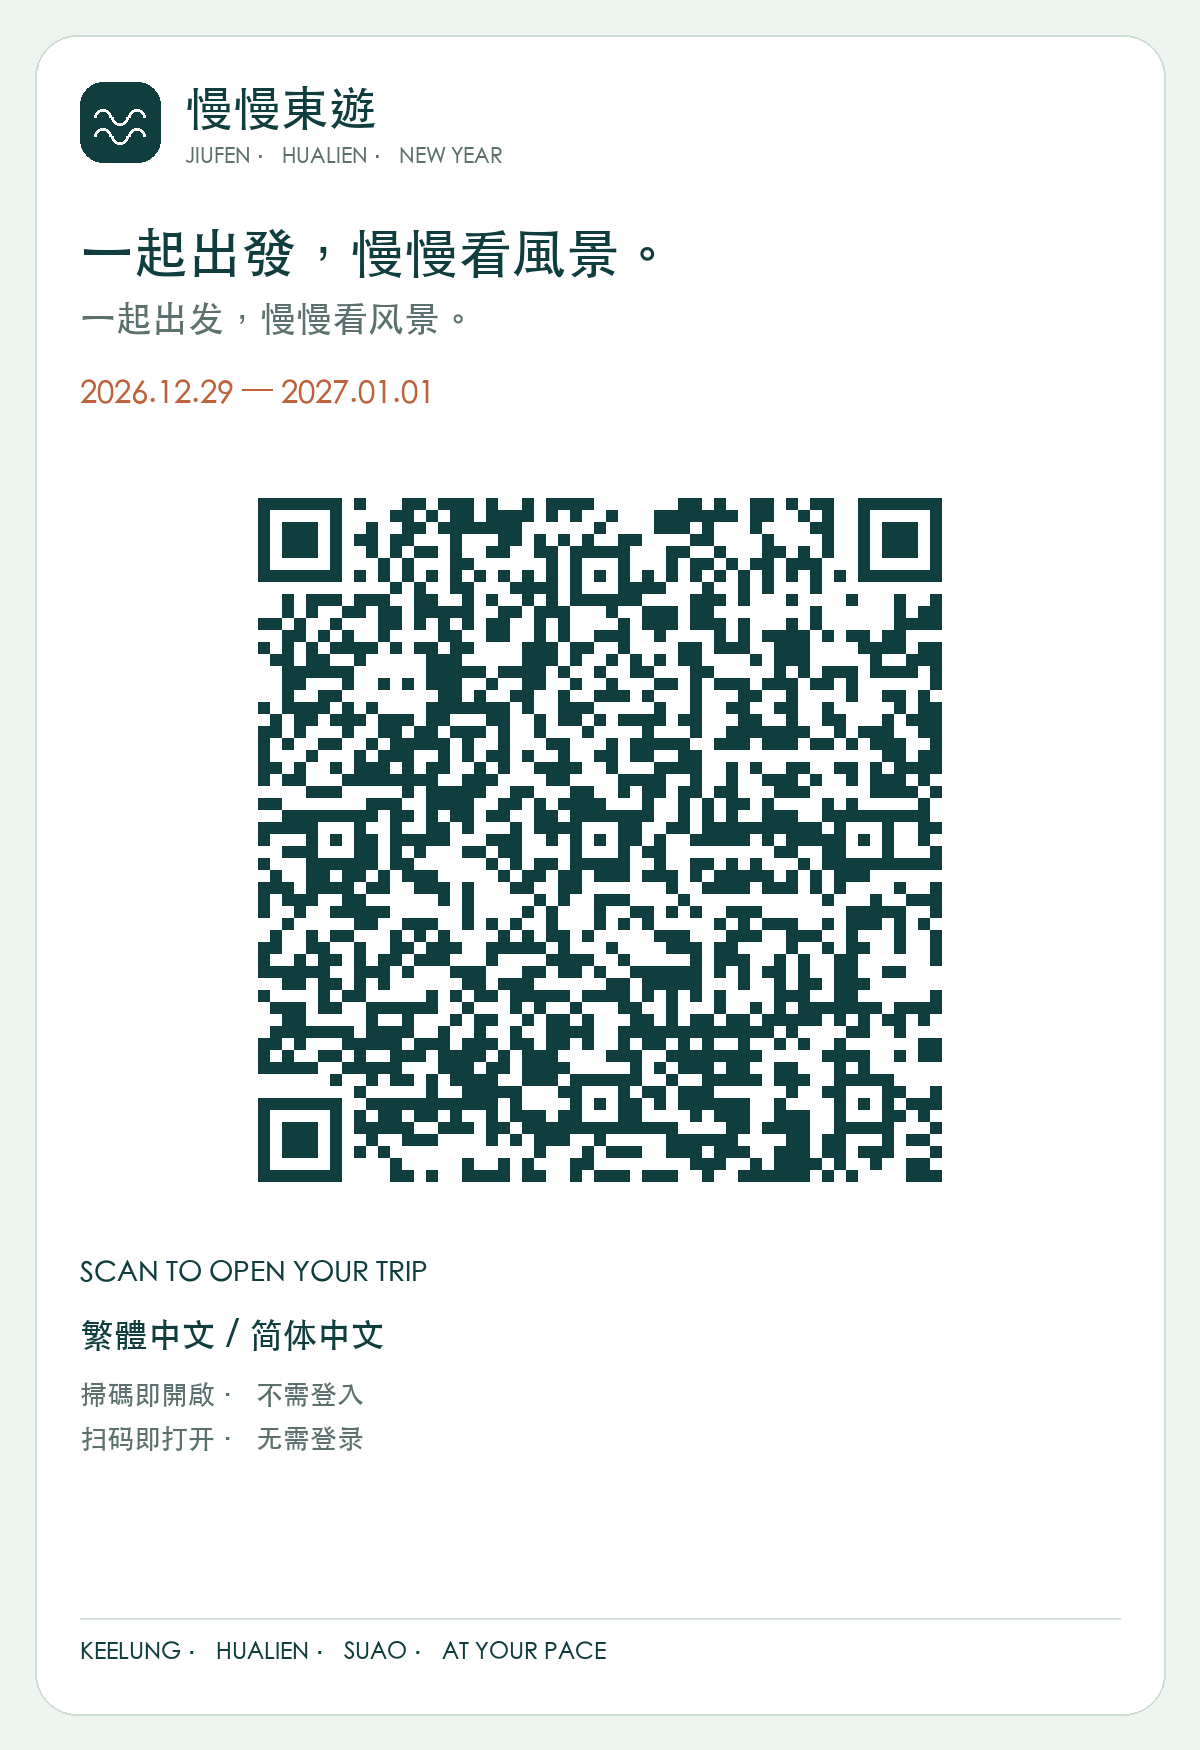
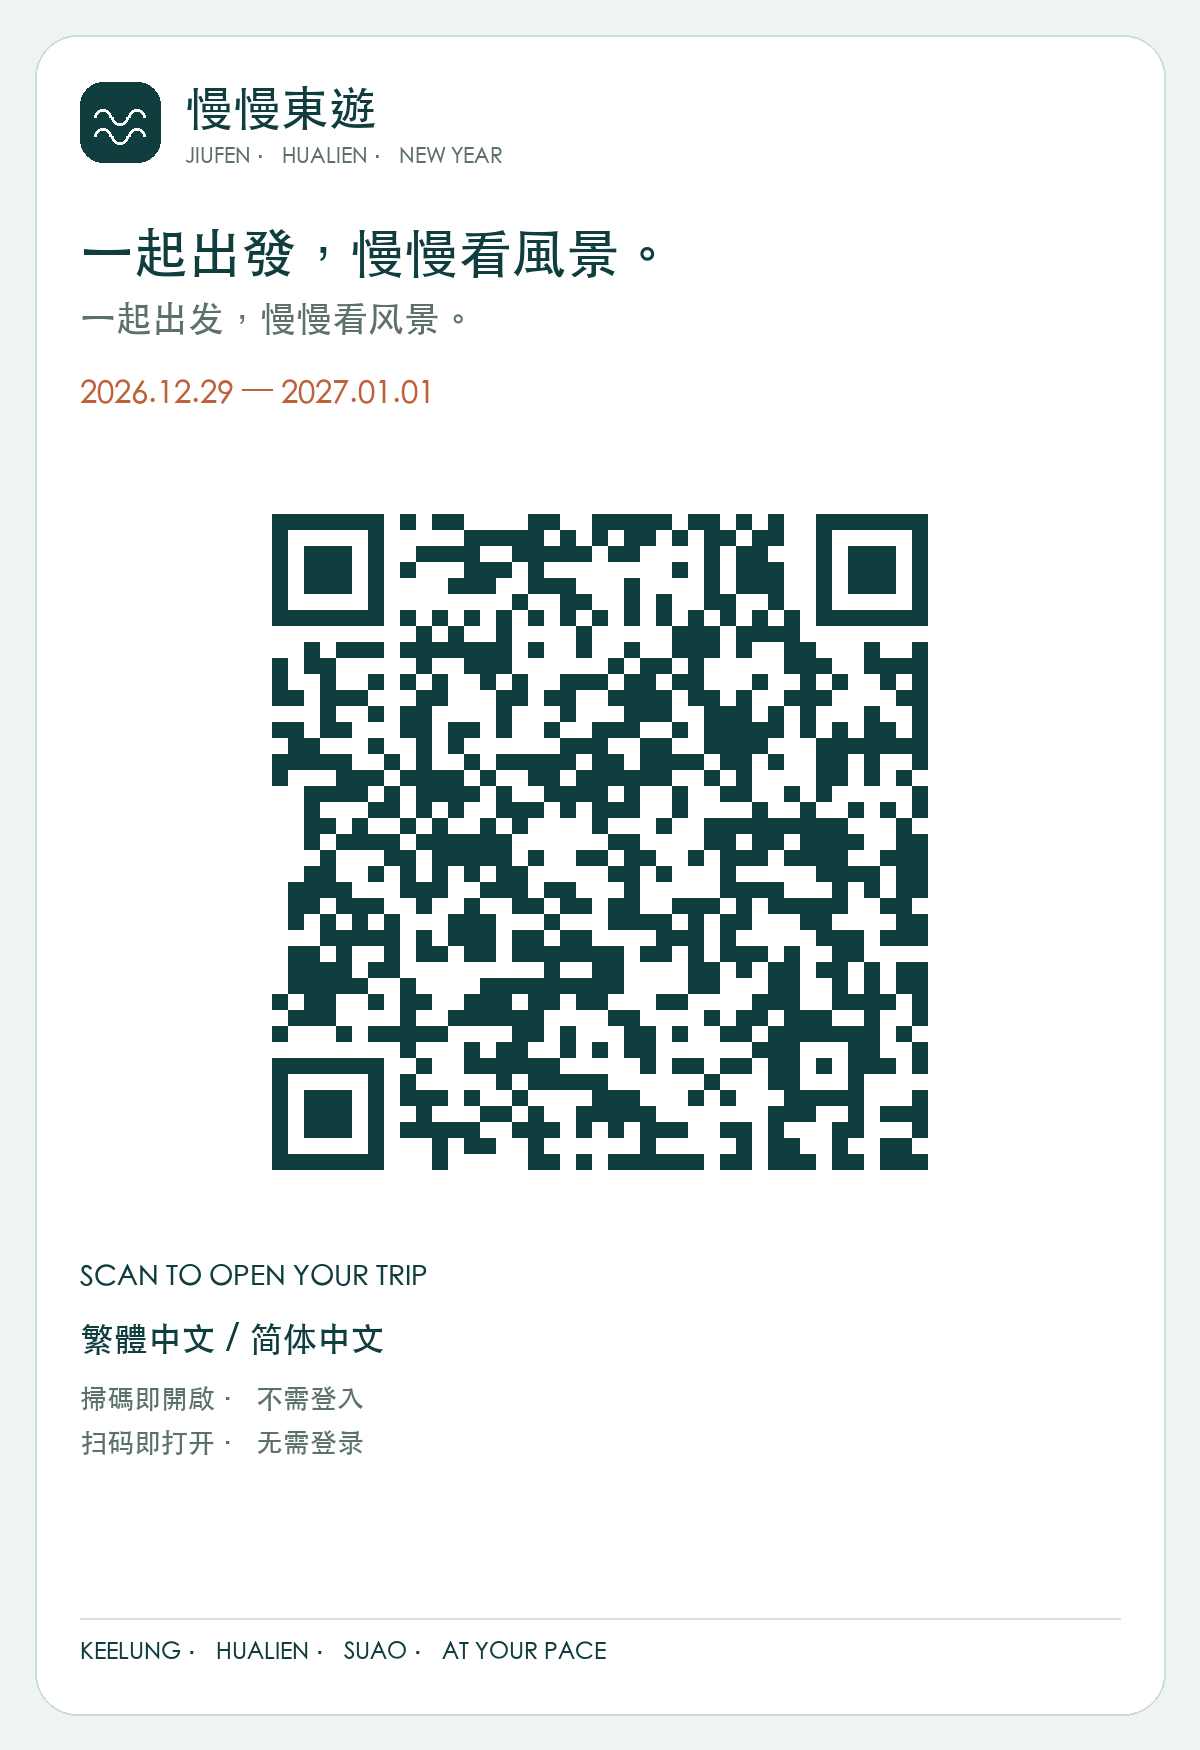
Publish native GitHub Pages URL and update all sharing QR codes

Changed region(s): [[0.2158, 0.2777, 0.8017, 0.6789], [0.0617, 0.7097, 0.3392, 0.8331]]

diff --git a/index.html b/index.html
@@ -20,7 +20,7 @@
 <div id="parking" class="parking-section"><div class="section-heading"><div><p class="eyebrow">PARK, THEN TAKE IT SLOW</p><h2>每一站，車停哪裡？</h2></div><p>正式費率與預留金分開列。<br>各站金額已包含在整趟停車預算，不再重複加總。</p></div><div class="table-scroll"><table class="parking-table"><caption>每車停車費、景點費與步行負擔</caption><thead><tr><th>停靠地點</th><th>停車與費率</th><th>步行／門票</th><th>導航與來源</th></tr></thead><tbody id="parking-rows"></tbody></table></div></div></div></section>
 <section id="prepare" class="section wrap"><div class="section-heading"><div><p class="eyebrow">ROOM FOR THE UNEXPECTED</p><h2>鬆一點，應變也更容易。</h2></div></div><div class="prepare-grid"><article><span class="tag">抵達與返程</span><h3>把最重要的餘裕留給航班</h3><p><strong>12/29 取車較晚：</strong>12:30後先刪十分，15:00後取消山城、直接基隆。翌日只補十分會把七星潭移31日早上；九份若也錯過，不保證四個重點全到。極晚抵台可先機場附近休息，額外房費／取消費另計，不疲勞趕路。</p><p><strong>元旦：</strong>主案早餐後 10:30–11:00 離蘇澳。一般純行車約 2.5–3.5 小時，連假可能 4–6 小時以上；加油、驗車還車、接駁另留 60–90 分鐘，再按航空公司要求，通常起飛前 2–3 小時到航廈。</p><p><strong>選傍晚偏晚、約 19:30 後航班作規劃參考，尚未選班。</strong>若航班較早或路況惡化，改 08:00–09:00 出發，取消沿途用餐停靠；出發前看即時路況。若預估無法趕上，先聯絡航空公司評估改班，不保證任何時刻必定趕得上。</p><a href="https://1968.freeway.gov.tw/" target="_blank" rel="noopener">高公局 1968 即時路況</a></article><article><span class="tag">雨天與低步行</span><h3>蘇花能否通行，比天氣按鈕更重要。</h3><p><strong>12/30：</strong>出發前看公路局道路資訊與氣象。豪雨、落石或封路就取消花蓮段，改留北部／宜蘭並聯絡住宿；不以網頁導航代替放行公告。</p><p><strong>12/31：</strong>可通行才白天北返蘇澳；強風雨取消崖邊及七星潭。匯德不安排，崇德也只進當日開放範圍。<a href="https://168.thb.gov.tw/" target="_blank" rel="noopener">公路局168路況</a> · <a href="https://www.taroko.gov.tw/ch/trailopen/road-and-trail-openings" target="_blank" rel="noopener">太魯閣開放表</a></p><p><strong>少走路：</strong>步行分鐘為估算，非無障礙認證。九份有坡、七星潭施工可能增加距離；先合法下客再停車，沒有近位就縮短或取消。不走瀑布步道、不走礫石灘、不靠近浪線。</p><a href="https://www.cwa.gov.tw/" target="_blank" rel="noopener">中央氣象署天氣</a></article><article><span class="tag">國 5 與證件</span><h3>先確認規則，再決定出發時間</h3><p><strong>1/1 沒有高乘載管制。</strong>1/2–1/3 13:00–18:00 才於蘇澳、羅東、宜蘭、頭城指定北向入口實施；無管制仍可能塞車。<a href="https://www.freeway.gov.tw/Upload/Html/20261110354/" target="_blank" rel="noopener">高公局元旦官網表</a></p><p>香港出生、具香港永久居留資格的旅客先按港澳居民網簽規則核對，其他護照等條件仍須符合，以移民署審核為準；建議預先辦妥。<a href="https://www.immigration.gov.tw/5385/7244/7250/7296/停留/75544/" target="_blank" rel="noopener">移民署</a></p><p>帶有效香港國際駕駛許可證、原正式駕照、護照及本人信用卡；訂車前向門市確認駕駛資格、保險及接駁。<a href="https://www.car-plus.com.tw/information/faq/category/1" target="_blank" rel="noopener">門市 FAQ</a> · <a href="https://www.taoyuan-airport.com/carrentals?lang=ch" target="_blank" rel="noopener">機場租車</a></p><p>台灣禁止電子煙及其組合元件輸入、販售與使用，請勿攜入，也不要在台購買。<a href="https://web.customs.gov.tw/taipei/singlehtml/3130?cntId=cus2_168120_3130" target="_blank" rel="noopener">官方規定</a></p></article></div>
 <div class="booking"><div><p class="eyebrow">預訂順序</p><h3>先鎖跨年夜，再填好其餘三天。</h3></div><ol><li><b>跨年飯店</b><span>先問瓏山林12/31空房、餐食、派對與私湯；保留可取消的條款。</span></li><li><b>航班與取還車</b><span>去程CX488已訂：29日08:00香港出發、09:40抵桃園。回程仍待確認，先選元旦偏晚回港，再倒推還車。</span></li><li><b>基隆與花蓮各一晚</b><span>確認車位、早餐、合法下客及取消條款；花蓮段保留道路應變彈性。</span></li><li><b>小吃不用排滿</b><span>廟口和東大門只選幾樣；出發前再查店家公休，不為一攤排長隊。</span></li></ol><p class="small">本頁為規劃工具；沒有進行任何訂房、訂餐、機票、租車或日曆操作。</p></div></section>
-<section id="share" class="section share-section"><div class="wrap share-grid"><div><p class="eyebrow">A LITTLE GUIDE, SHARED WITH YOU</p><h2>掃一下，<br>就一起出發。</h2><p>掃描QR Code就直接打開完整旅遊App，不需登入。繁體、簡體都能切換，手機也能查看四日路線、導航與預算。</p><div class="share-actions"><a class="button" id="open-github" href="https://htmlpreview.github.io/?https://github.com/kenny149151/taiwan-trip-web/blob/web-app/index.html">開啟旅遊App</a><button class="button secondary" id="copy-github" type="button">複製網站連結</button><button class="button secondary" id="native-share" type="button">分享給旅伴</button></div><label class="share-url-label" for="github-share-url">免登入網站連結</label><input id="github-share-url" class="share-url" type="url" readonly value="https://htmlpreview.github.io/?https://github.com/kenny149151/taiwan-trip-web/blob/web-app/index.html" data-no-convert><p class="share-access"><strong>直接分享：</strong>持有連結或QR Code的人可直接瀏覽。停靠點與預算只保存在各自的瀏覽器，彼此不會同步。</p><div class="guide-links"><button type="button" data-language="zh-Hant" data-no-convert>繁體中文網站</button><button type="button" data-language="zh-Hans" data-no-convert>简体中文网站</button></div><p id="share-status" class="small" role="status" aria-live="polite"></p></div><figure class="qr-card"><img src="app-share-card.png" alt="慢慢東遊免登入旅遊App QR分享卡" loading="lazy" width="1200" height="1750"><figcaption><a href="app-share-card.png" download="慢慢東遊-App分享卡.png">下載高清分享卡 PNG</a><a href="app-qr.svg" download="慢慢東遊-App-QR.svg">下載QR向量檔 SVG</a></figcaption></figure></div></section>
+<section id="share" class="section share-section"><div class="wrap share-grid"><div><p class="eyebrow">A LITTLE GUIDE, SHARED WITH YOU</p><h2>掃一下，<br>就一起出發。</h2><p>掃描QR Code就直接打開完整旅遊App，不需登入。繁體、簡體都能切換，手機也能查看四日路線、導航與預算。</p><div class="share-actions"><a class="button" id="open-github" href="https://kenny149151.github.io/taiwan-trip-web/">開啟旅遊App</a><button class="button secondary" id="copy-github" type="button">複製網站連結</button><button class="button secondary" id="native-share" type="button">分享給旅伴</button></div><label class="share-url-label" for="github-share-url">免登入網站連結</label><input id="github-share-url" class="share-url" type="url" readonly value="https://kenny149151.github.io/taiwan-trip-web/" data-no-convert><p class="share-access"><strong>直接分享：</strong>持有連結或QR Code的人可直接瀏覽。停靠點與預算只保存在各自的瀏覽器，彼此不會同步。</p><div class="guide-links"><button type="button" data-language="zh-Hant" data-no-convert>繁體中文網站</button><button type="button" data-language="zh-Hans" data-no-convert>简体中文网站</button></div><p id="share-status" class="small" role="status" aria-live="polite"></p></div><figure class="qr-card"><img src="app-share-card.png" alt="慢慢東遊免登入旅遊App QR分享卡" loading="lazy" width="1200" height="1750"><figcaption><a href="app-share-card.png" download="慢慢東遊-App分享卡.png">下載高清分享卡 PNG</a><a href="app-qr.svg" download="慢慢東遊-App-QR.svg">下載QR向量檔 SVG</a></figcaption></figure></div></section>
 </main>
 <footer><div class="wrap"><div class="footer-top"><a class="brand" href="#home"><img src="favicon.svg" alt="" width="42" height="42"><span>慢慢東遊<small>TAKE THE SCENIC WAY.</small></span></a><p>海風慢慢吹，新年慢慢來。<br><span class="small">資料查核：2026/11/26 · 時區 UTC+8</span></p></div><details><summary>照片授權、資料來源與使用說明</summary><p>主視覺為ImageGen想像海岸情境，非特定飯店或景點。三張真實照片已縮小、版面裁切：九份，Shinji，2014，<a href="https://commons.wikimedia.org/wiki/File:2014-06-25_Jiufen_Old_Street.jpg" target="_blank" rel="noopener">來源</a>，<a href="https://creativecommons.org/licenses/by/2.0/" target="_blank" rel="noopener">CC BY2.0</a>；七星潭，Artemas Liu，2021，<a href="https://commons.wikimedia.org/wiki/File:Qixingtan_Beach,_Taiwan.jpg" target="_blank" rel="noopener">來源</a>，<a href="https://creativecommons.org/licenses/by-sa/2.0/" target="_blank" rel="noopener">CC BY-SA2.0</a>；清水斷崖，Huaiwun，2021，<a href="https://commons.wikimedia.org/wiki/File:Taroko_National_Park_Qingshui_Cliff_(Huaiwun).jpg" target="_blank" rel="noopener">來源</a>，<a href="https://creativecommons.org/licenses/by-sa/4.0/" target="_blank" rel="noopener">CC BY-SA4.0</a>。照片為歷史記錄，非當日視角、施工或天候保證。</p><p>七星潭施工：<a href="https://www.cna.com.tw/news/aloc/202611040158.aspx" target="_blank" rel="noopener">2026/11/4中央社引述縣府</a>。清水斷崖：<a href="https://www.taiwan.nps.gov.tw/home/zh-tw/attractions/21010.html" target="_blank" rel="noopener">國家公園部分開放資訊</a>、<a href="https://www.taroko.gov.tw/ch/trailopen/road-and-trail-openings" target="_blank" rel="noopener">當日道路步道表</a>。停車費來源逐站列於費用表；小吃店未核實的營業、公休和售價均註明。所有活動與道路請出發前再查。勾選和預算只存此瀏覽器，未讀取定位或日曆。</p></details><div class="footer-bottom"><span>2027 東海岸自駕手帖</span><button id="print-plan">列印／儲存 PDF</button><a href="#home">回到頁首</a></div></div></footer>
 <div id="toast" role="status" aria-live="polite"></div>

diff --git a/share.js b/share.js
@@ -1,5 +1,5 @@
 (() => {
-  const repository='https://htmlpreview.github.io/?https://github.com/kenny149151/taiwan-trip-web/blob/web-app/index.html';
+  const repository='https://kenny149151.github.io/taiwan-trip-web/';
   const status=document.querySelector('#share-status');
   document.querySelector('#github-share-url').value=repository;
   document.querySelector('#open-github').href=repository;
@@ -25,7 +25,7 @@
   });
   document.querySelector('#native-share').addEventListener('click',async()=>{
     try{
-      if(navigator.share){await navigator.share({title:'慢慢宜蘭｜台北與宜蘭自駕手帖',text:window.travelLanguage?.format('繁體／簡體旅遊App；直接開啟，無需登入。'),url:repository});say('分享已完成。');}
+      if(navigator.share){await navigator.share({title:'慢慢東遊｜山城小吃與花蓮海岸',text:window.travelLanguage?.format('繁體／簡體旅遊App；直接開啟，無需登入。'),url:repository});say('分享已完成。');}
       else document.querySelector('#copy-github').click();
     }catch(error){if(error.name!=='AbortError')say('請使用複製連結或下載QR分享卡。');}
   });

diff --git a/VERIFICATION.md b/VERIFICATION.md
@@ -7,6 +7,7 @@
 - SUV及花蓮住宿選擇會更新油資、預算和導航；自訂預算、繁簡語言可在重新整理後保留。
 - 預設雙人含來回機票與香港交通預留NT$72,210；不是即時報價或待付款金額。去程CX488已訂，實付未提供。
 - QR PNG與分享卡均已解碼，目標為完整視覺App：
-  https://htmlpreview.github.io/?https://github.com/kenny149151/taiwan-trip-web/blob/web-app/index.html
+  https://kenny149151.github.io/taiwan-trip-web/
 - 未將訂單截圖、訂位識別碼、姓名、會員資料、私人日曆或Sites憑證放入公開原始碼。
+- 原生GitHub Pages重新發布，分享與QR均改用github.io網址。
 - 公開網絡／微信政策因裝置及地區可能不同，不承諾所有內置瀏覽器均可開啟。
